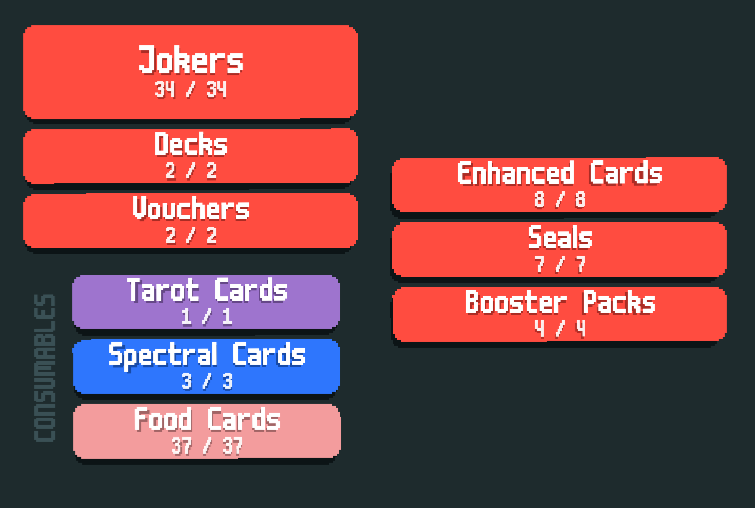
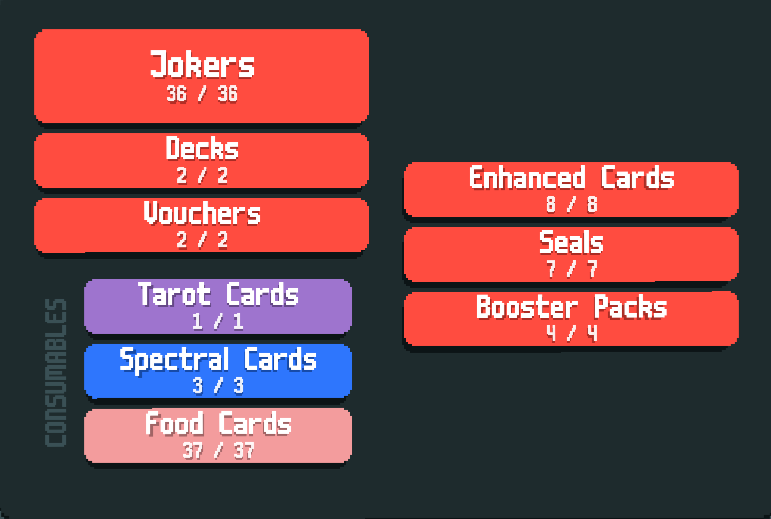
Update ReadMe

diff --git a/README.md b/README.md
@@ -24,7 +24,7 @@
 <hr>
 <h2>Elements</h2>
 <ul>
-    <li>34+ Jokers</li>
+    <li>36+ Jokers</li>
     <li>31 Foods (+6 Cross-Mod)</li>
     <li>8+ Enhancements</li>
     <li>7 Seals</li>
@@ -51,5 +51,4 @@
 <h2>Credits</h2>
 <ul>
     <li><strong>le_dugs</strong> for a lot of ideas</li>
-    <li><strong>frogggy18</strong> for some balance changes</li>
 </ul>
